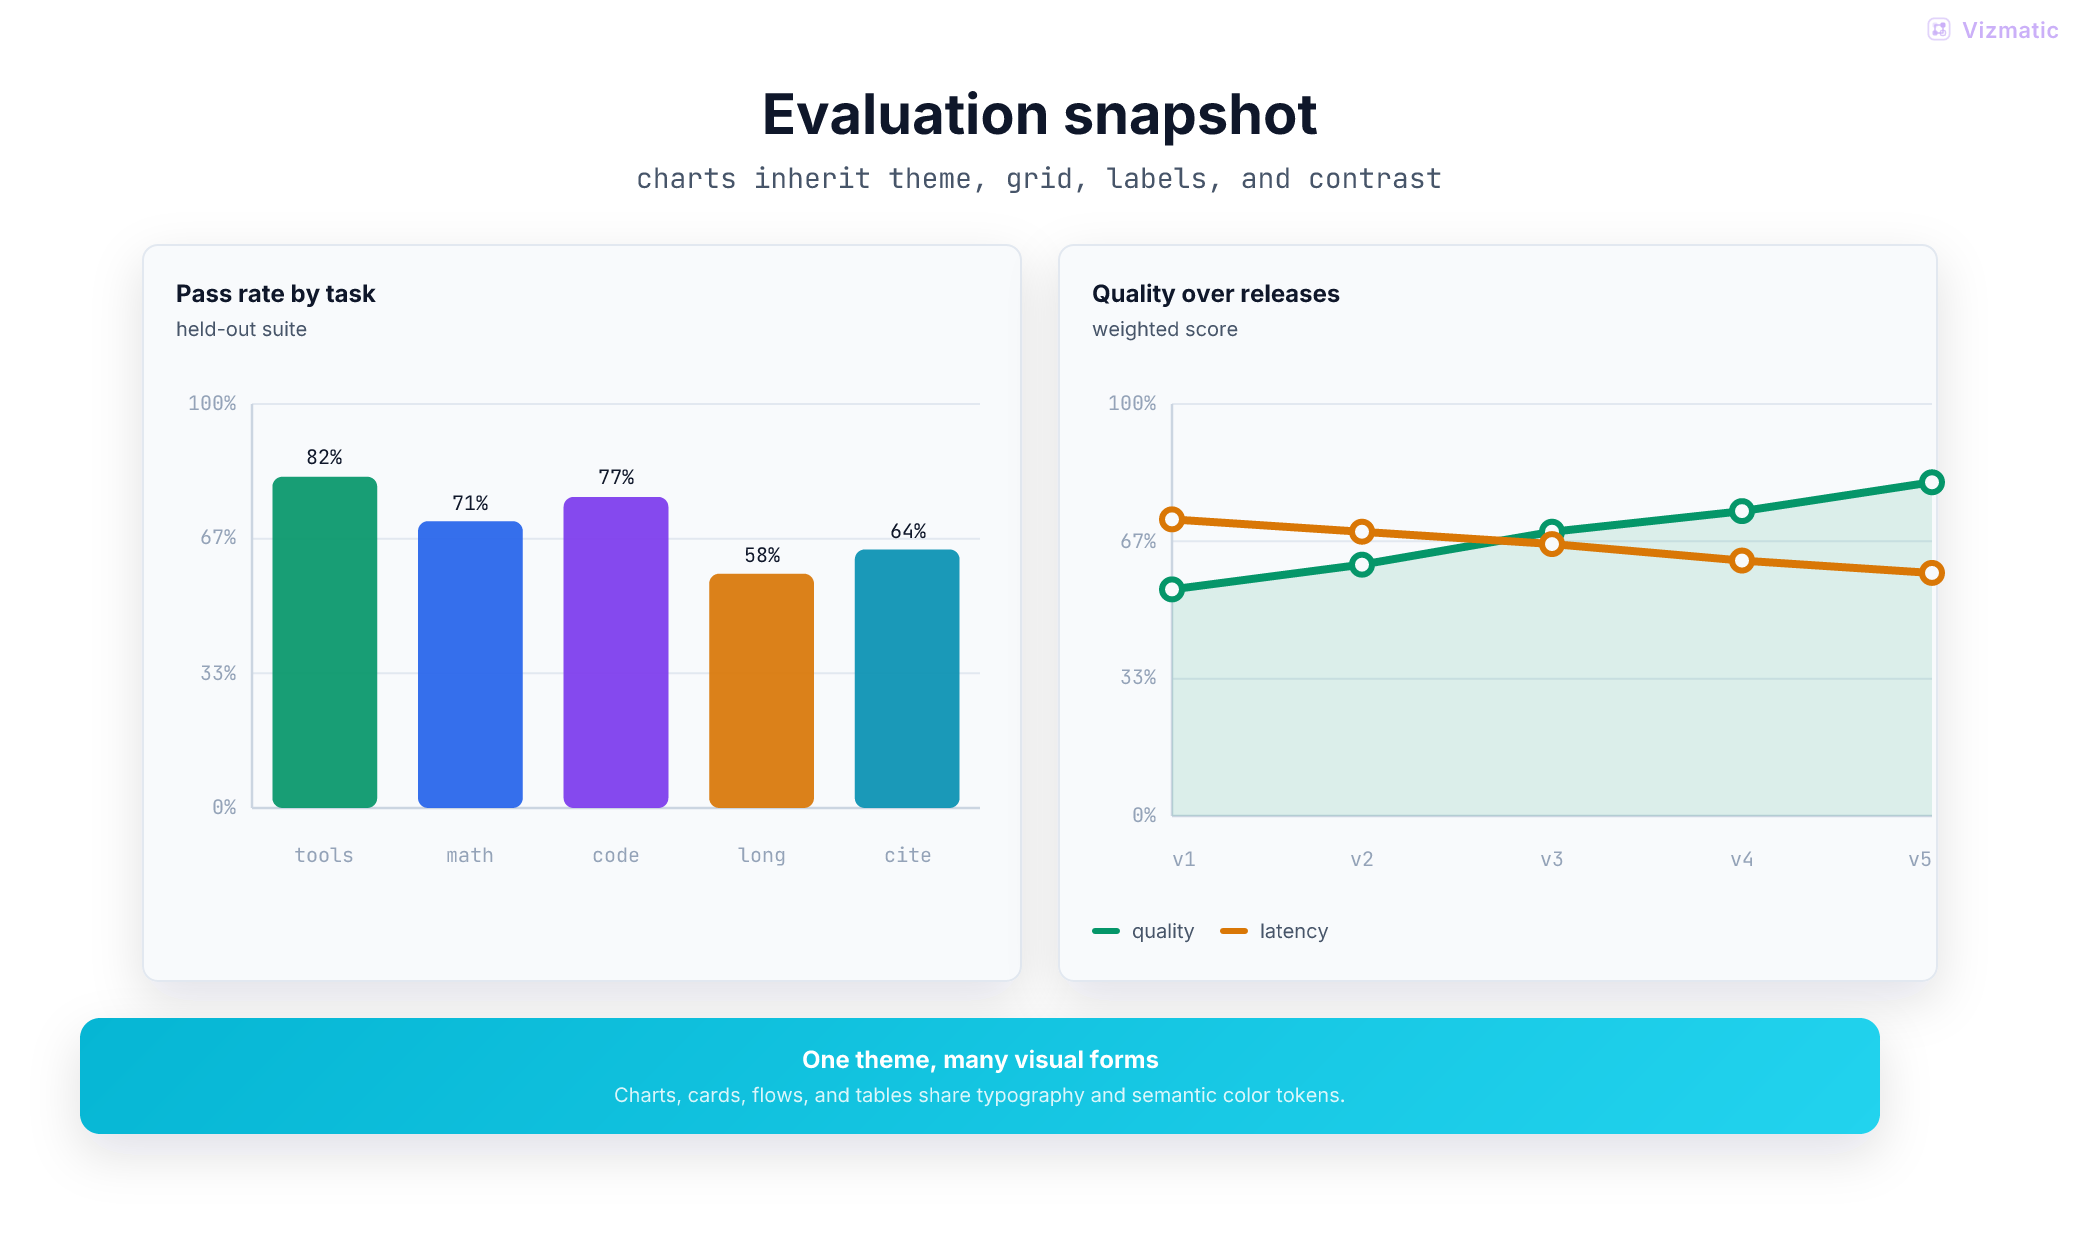
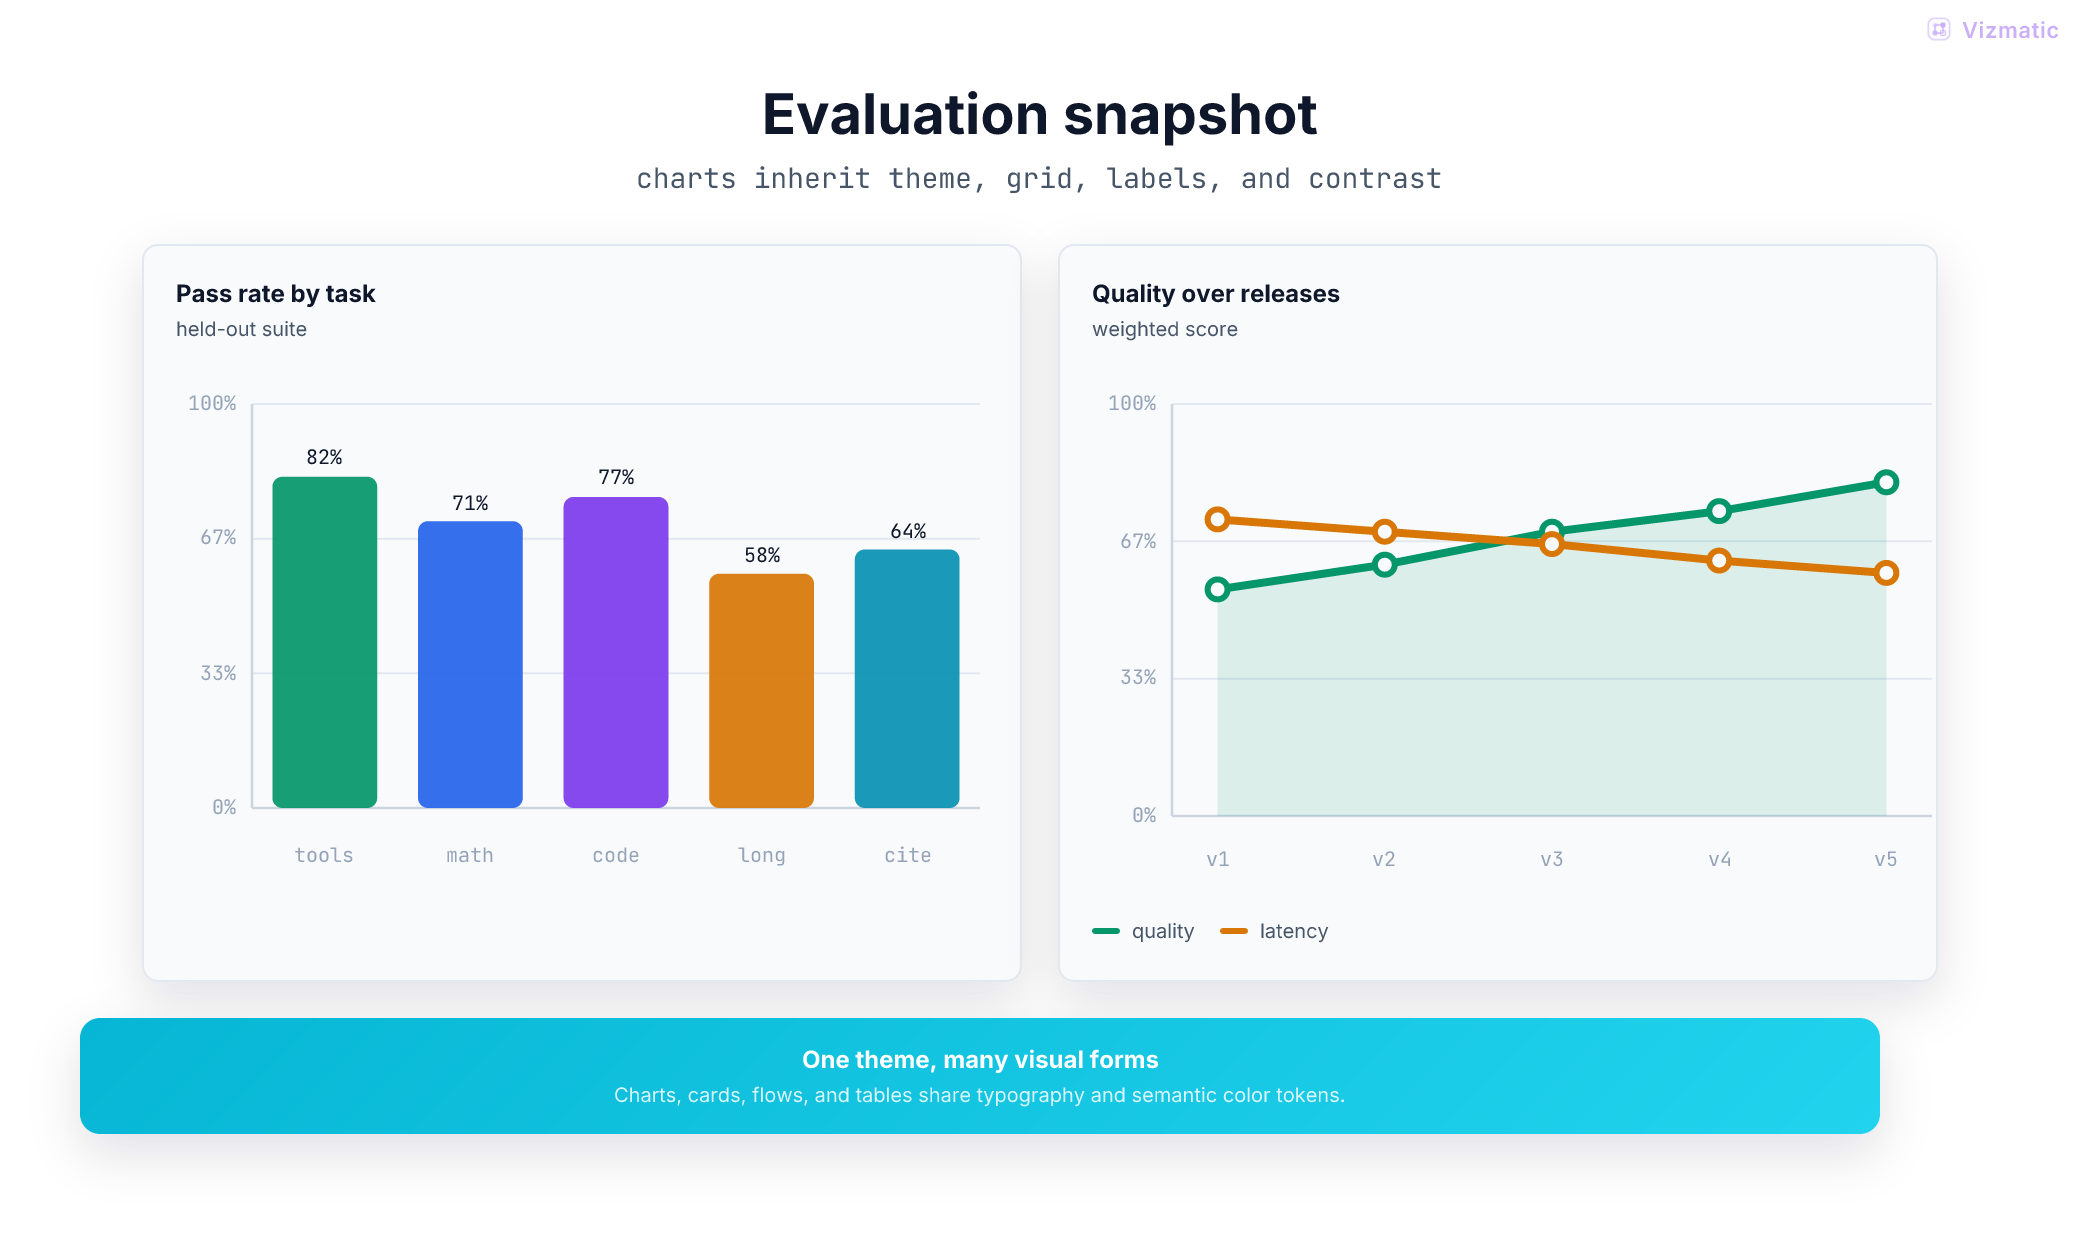
Pad line chart endpoints

Changed region(s): [[0.7812, 0.3677, 0.9375, 0.6742], [0.5625, 0.3984, 0.7188, 0.6742]]

diff --git a/tests/render.test.tsx b/tests/render.test.tsx
@@ -18,6 +18,7 @@ import {
     Watermark,
     wrapWithWatermark,
     BarChart,
+    LineChart,
     Panel,
 } from '../src'
 
@@ -152,6 +153,26 @@ function pixelBounds(
     }
 
     return { minX, maxX, minY, maxY }
+}
+
+function reactProps(element: React.ReactElement): Record<string, unknown> {
+    return element.props as Record<string, unknown>
+}
+
+function collectElements(
+    node: React.ReactNode,
+    matches: (element: React.ReactElement) => boolean,
+): React.ReactElement[] {
+    const elements: React.ReactElement[] = []
+
+    React.Children.forEach(node, (child) => {
+        if (!React.isValidElement(child)) return
+        const element = child as React.ReactElement
+        if (matches(element)) elements.push(element)
+        elements.push(...collectElements(reactProps(element).children as React.ReactNode, matches))
+    })
+
+    return elements
 }
 
 function hexToRgb(hex: string): [number, number, number] {
@@ -348,6 +369,26 @@ describe('vizmatic render pipeline', () => {
         expect(blueBounds.maxX).toBeGreaterThan(0)
         expect(opaqueBounds.maxX - blueBounds.maxX).toBeGreaterThanOrEqual(30)
     }, 30_000)
+
+    it('keeps line chart endpoints inset from plot edges', () => {
+        const chart = LineChart({
+            c: getThemeColors('light'),
+            width: 460,
+            height: 250,
+            format: 'percent',
+            labels: ['cold', 't+1', 't+2', 't+3', 't+4'],
+            series: [
+                { name: 'cache read', points: [0.05, 0.42, 0.71, 0.86, 0.90], color: 'positive', area: true },
+                { name: 'relative cost', points: [1.00, 0.58, 0.35, 0.20, 0.16], color: 'warning' },
+            ],
+        })
+        const circles = collectElements(chart, (element) => element.type === 'circle')
+        const circleXs = circles.map((circle) => Number(reactProps(circle).cx))
+
+        expect(circleXs.length).toBe(10)
+        expect(Math.min(...circleXs)).toBeGreaterThanOrEqual(60)
+        expect(Math.max(...circleXs)).toBeLessThanOrEqual(420)
+    })
 
     it('applies panel gap between direct body children', () => {
         const panel = Panel({

diff --git a/src/primitives.ts b/src/primitives.ts
@@ -4849,11 +4849,14 @@ export function LineChart({
     const allValues = series.flatMap((item) => item.points)
     const domain = chartDomain(allValues, min, max)
     const maxPoints = Math.max(...series.map((item) => item.points.length), 1)
-    const xStep = maxPoints <= 1 ? plot.innerWidth : plot.innerWidth / (maxPoints - 1)
+    const xInset = maxPoints <= 1 ? 0 : Math.min(26, Math.max(14, plot.innerWidth * 0.06))
+    const xStart = maxPoints <= 1 ? plot.x + plot.innerWidth / 2 : plot.x + xInset
+    const xSpan = maxPoints <= 1 ? 0 : Math.max(1, plot.innerWidth - xInset * 2)
+    const xStep = maxPoints <= 1 ? 0 : xSpan / (maxPoints - 1)
     const ticks = chartTicks(domain.min, domain.max, 4)
 
     const pointFor = (value: number, index: number) => {
-        const x = plot.x + index * xStep
+        const x = xStart + index * xStep
         const y = yInPlot(value, domain, plot)
         return { x, y }
     }
@@ -4894,9 +4897,12 @@ export function LineChart({
                     if (item.points.length === 0) return []
                     const color = chartColor(item.color, c, seriesIndex)
                     const linePath = pathFor(item.points)
-                    const areaPath = item.area && item.points.length > 1
-                        ? `${linePath} L ${plot.x + (item.points.length - 1) * xStep} ${plot.bottom} L ${plot.x} ${plot.bottom} Z`
-                        : ''
+                    let areaPath = ''
+                    if (item.area && item.points.length > 1) {
+                        const firstPoint = pointFor(item.points[0], 0)
+                        const lastPoint = pointFor(item.points[item.points.length - 1], item.points.length - 1)
+                        areaPath = `${linePath} L ${lastPoint.x} ${plot.bottom} L ${firstPoint.x} ${plot.bottom} Z`
+                    }
                     const elements: React.ReactElement[] = []
                     if (areaPath) {
                         elements.push(React.createElement('path', { key: `${item.name}-area`, d: areaPath, fill: color, opacity: 0.12 }))
@@ -4937,10 +4943,9 @@ export function LineChart({
                 fontWeight: 700,
                 transform: 'translate(-50%, -50%) rotate(-90deg)',
             }),
-            ...(labels ?? []).map((label, index, allLabels) => {
-                const x = plot.x + index * xStep
-                const align = index === 0 ? 'left' : index === (allLabels.length - 1) ? 'right' : 'center'
-                return chartLabel(`line-x-${label}`, label, x, height - 14, c, { align, width: 72 })
+            ...(labels ?? []).map((label, index) => {
+                const x = xStart + index * xStep
+                return chartLabel(`line-x-${label}`, label, x, height - 14, c, { width: 72 })
             }),
         )
     })